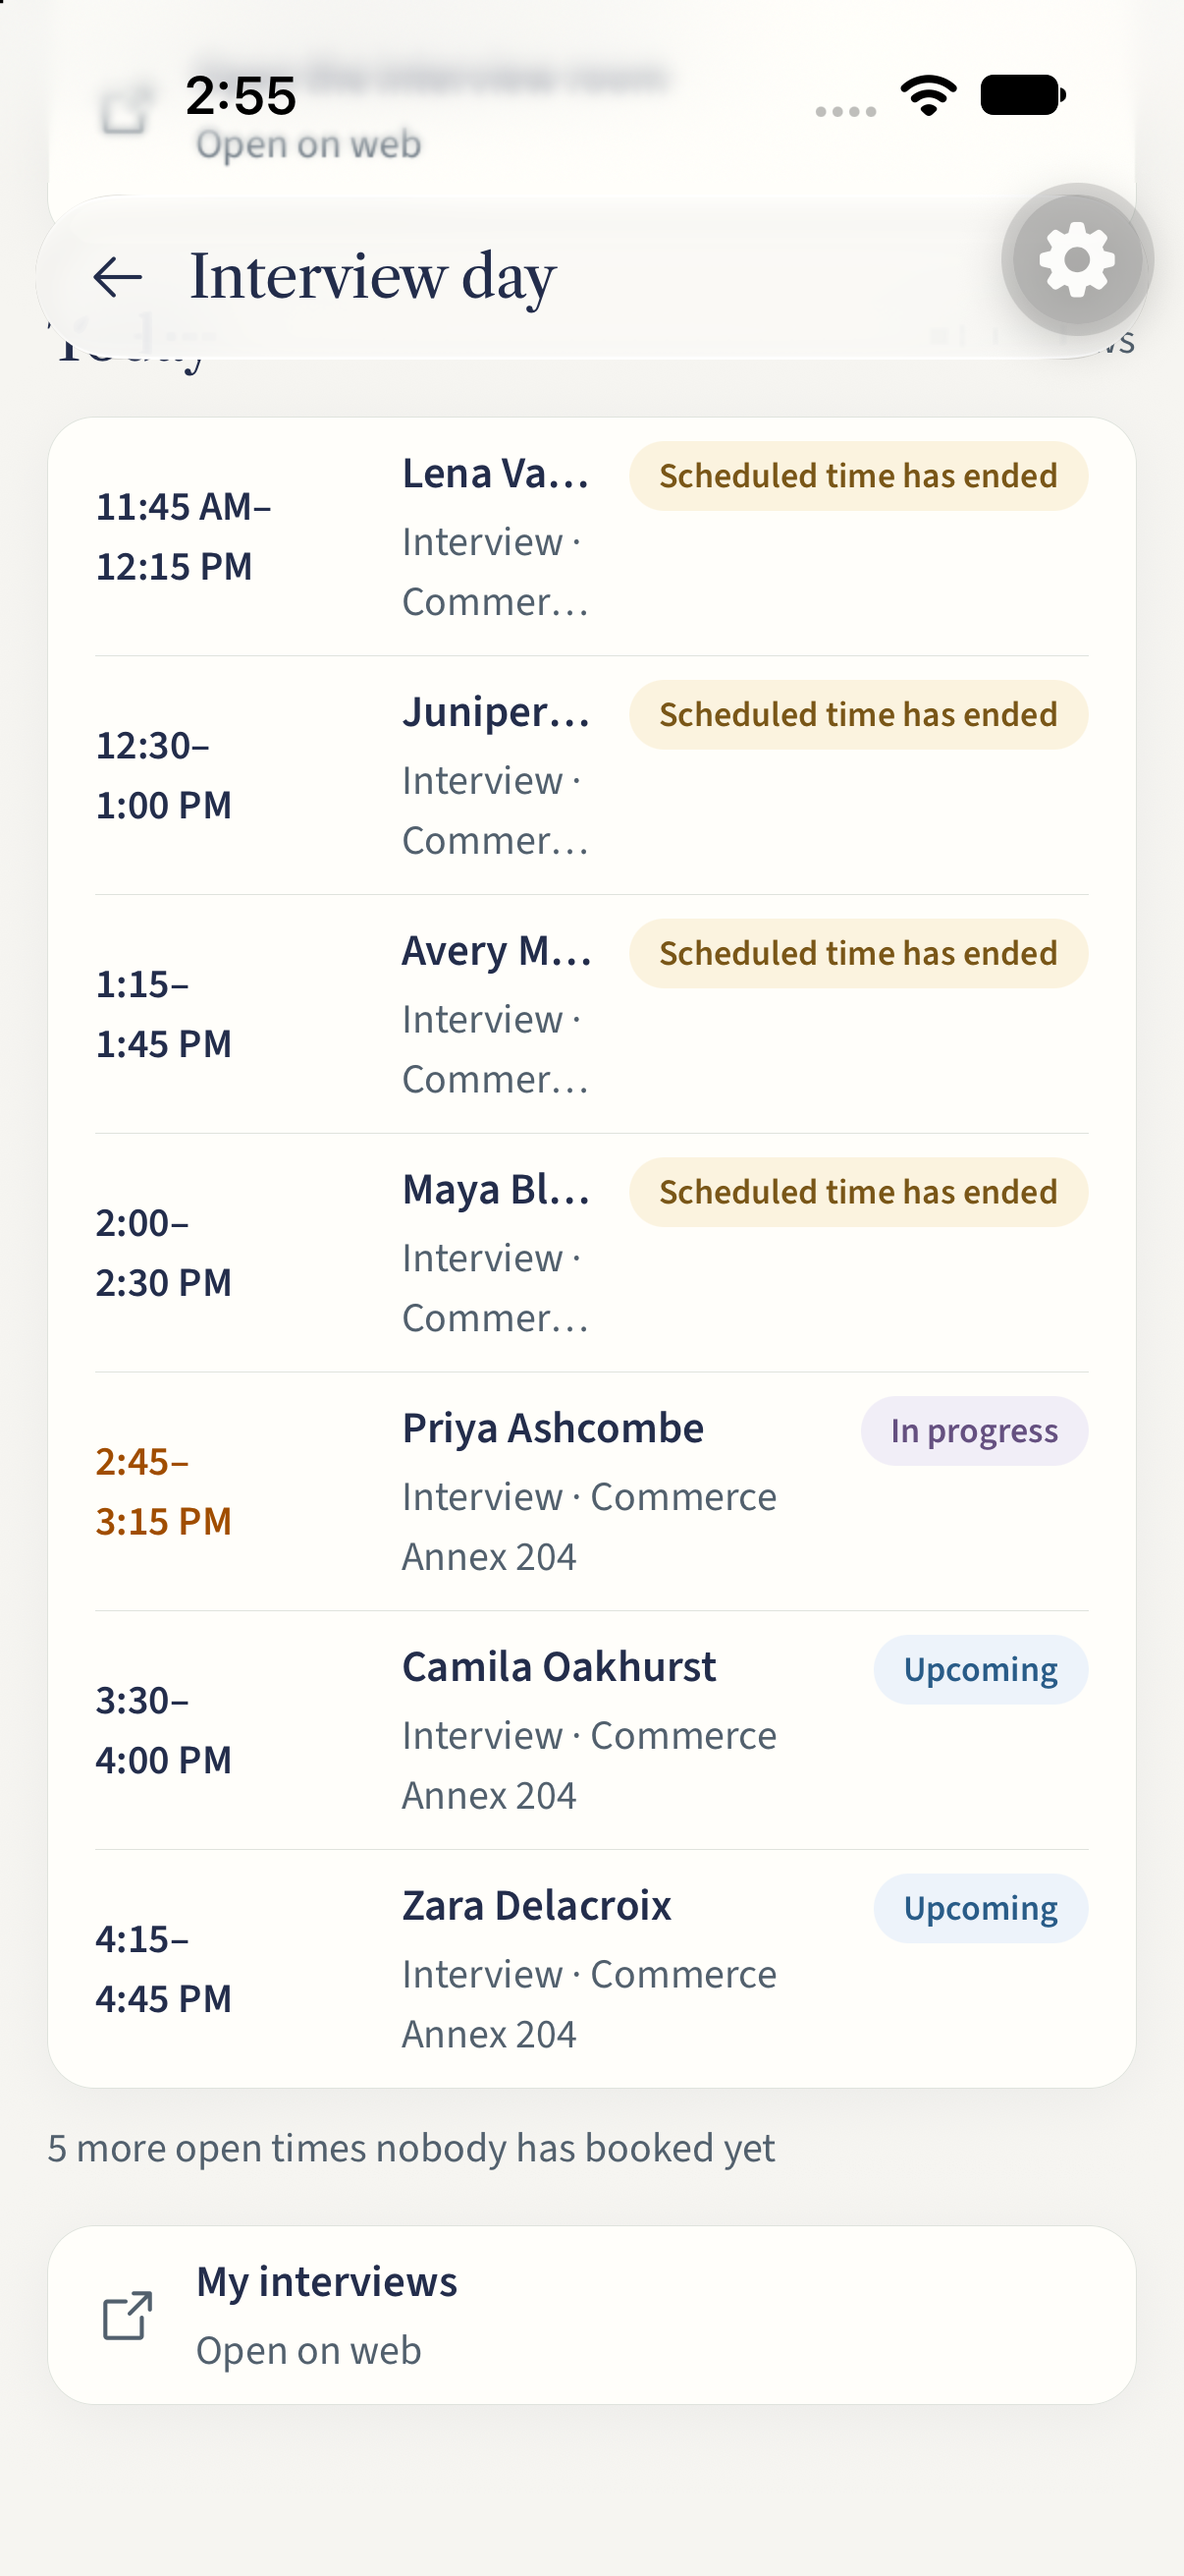
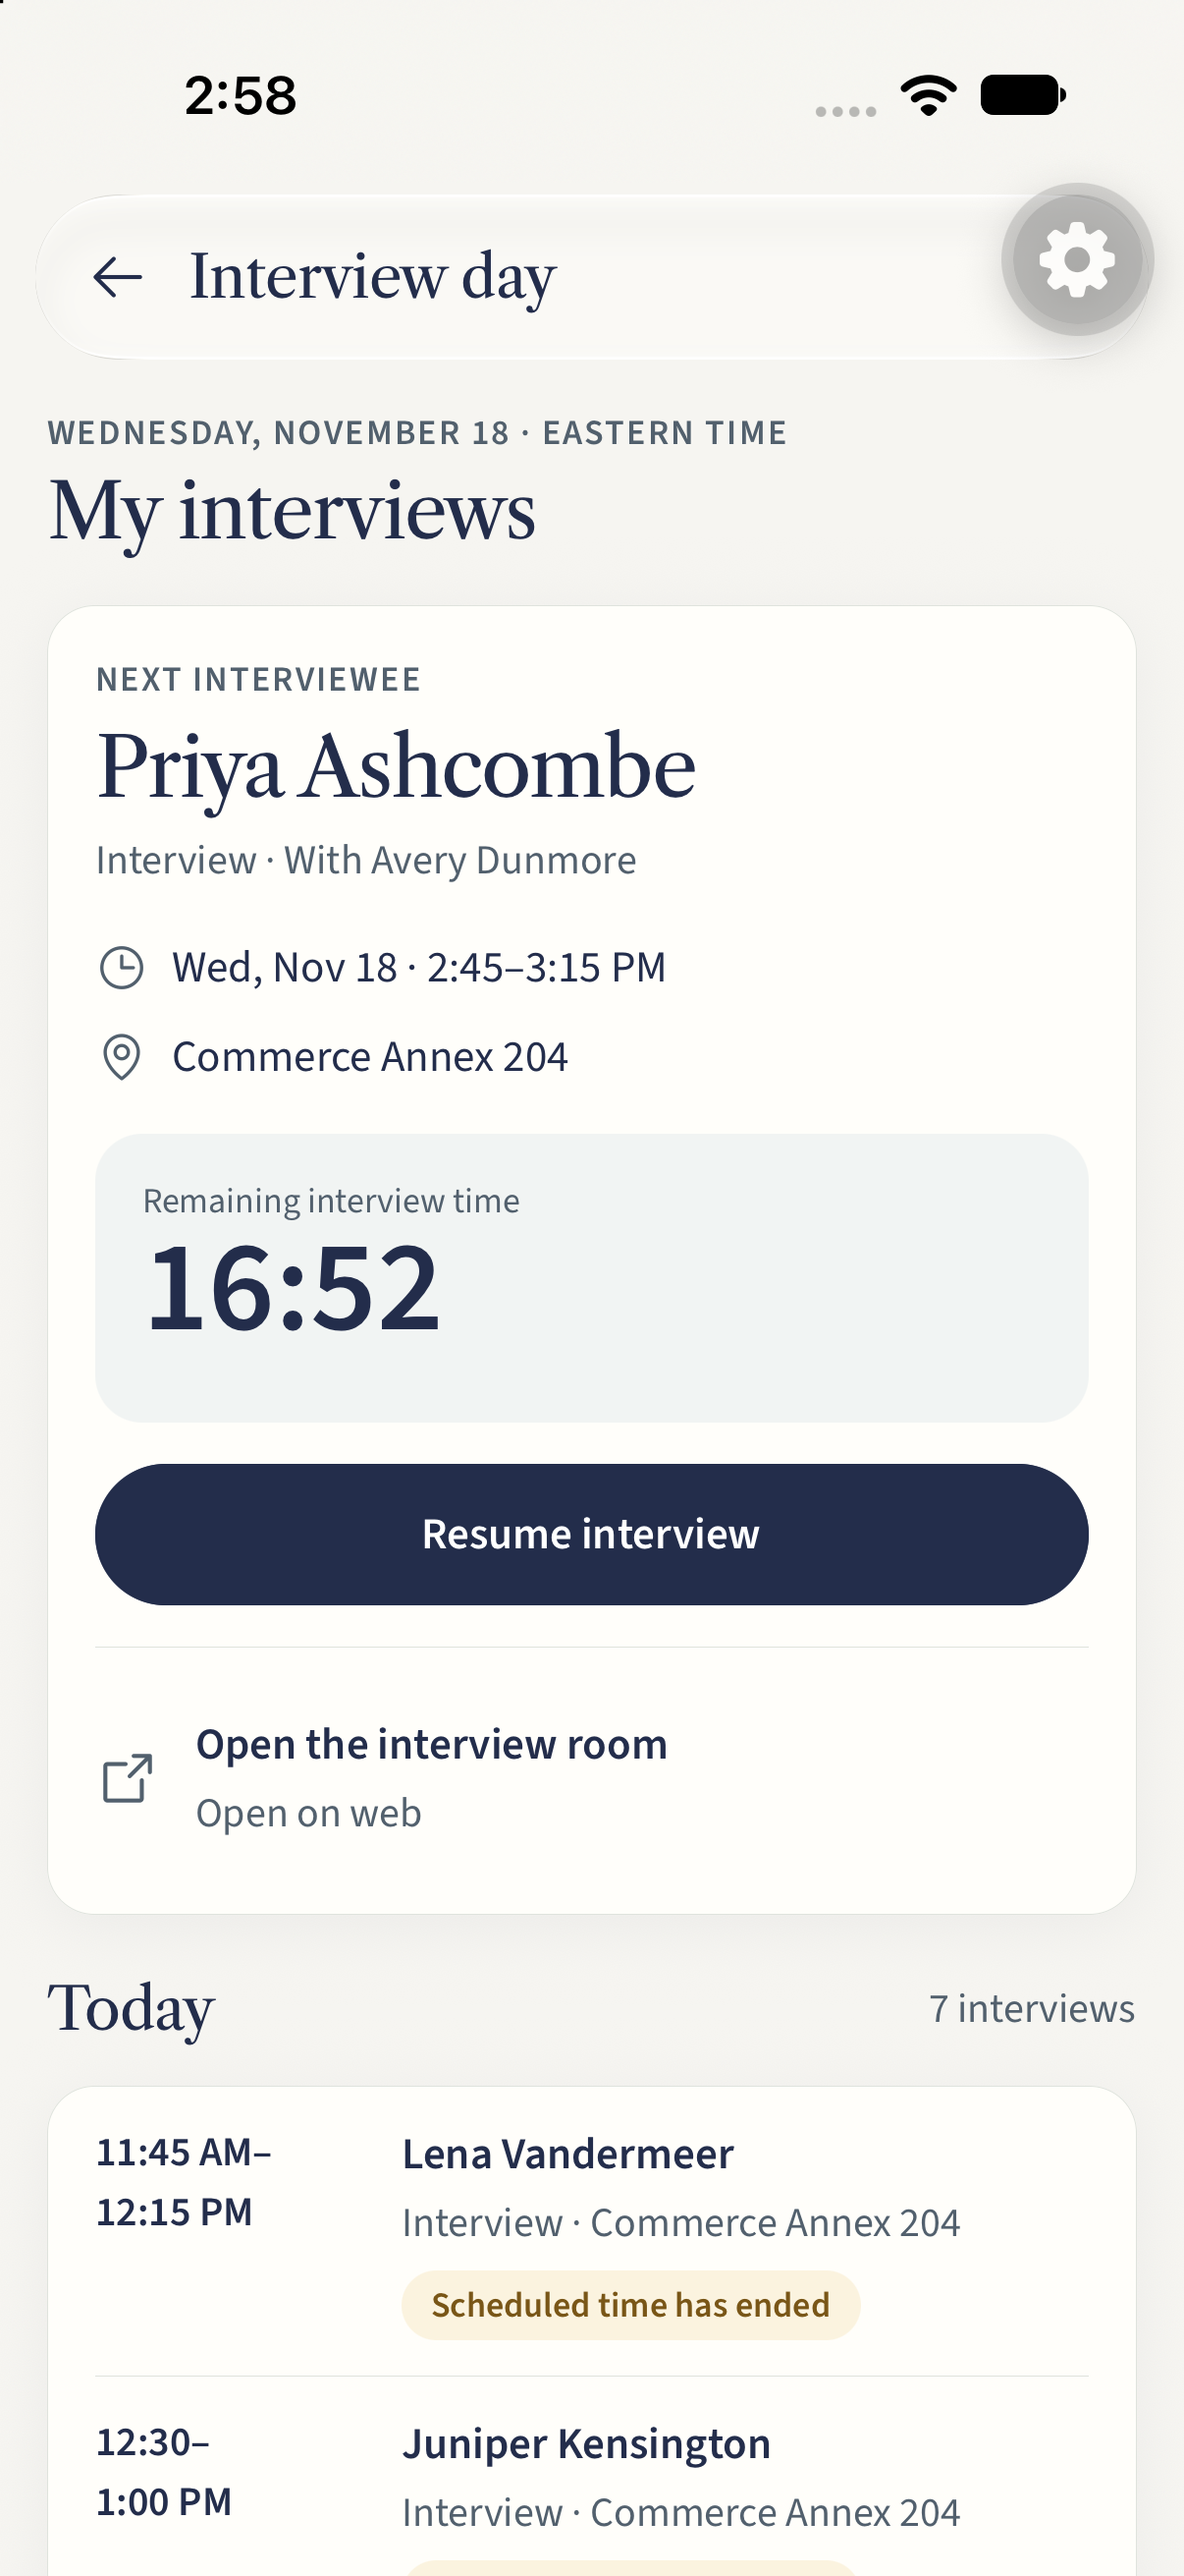
Live voting, interview day, applicant glance; disabled press dim

diff --git a/mobile/src/app/task/[assignmentId].tsx b/mobile/src/app/task/[assignmentId].tsx
@@ -1,7 +1,7 @@
 import { useMutation, useQueryClient } from "@tanstack/react-query";
 import { useLocalSearchParams } from "expo-router";
 import { useEffect, useRef, useState } from "react";
-import { KeyboardAvoidingView, Platform, View } from "react-native";
+import { View } from "react-native";
 import { AlumniBanner, useIsAlumni } from "~/components/alumni-banner";
 import { Field } from "~/components/field";
 import { Header, useHeaderInset } from "~/components/header";
@@ -129,8 +129,8 @@ export default function TaskScreen() {
   const children = task && workspace ? workspace.tasks.filter(child => child.projectId === task.id) : [];
 
   return (
-    <KeyboardAvoidingView behavior={Platform.OS === "ios" ? "padding" : undefined} style={{ flex: 1 }}>
-      <ScreenScroll top={top} refreshing={workspaces.some(query => query.isRefetching)} onRefresh={refresh} testID="task-screen">
+    <View style={{ flex: 1 }}>
+      <ScreenScroll top={top} automaticallyAdjustKeyboardInsets refreshing={workspaces.some(query => query.isRefetching)} onRefresh={refresh} testID="task-screen">
         {loading ? (
           <>
             <View style={{ gap: 10 }}><Skeleton width="50%" /><Skeleton width="85%" height={30} /><Skeleton width="40%" /></View>
@@ -182,6 +182,6 @@ export default function TaskScreen() {
         )}
       </ScreenScroll>
       <Header title="Task" back />
-    </KeyboardAvoidingView>
+    </View>
   );
 }

diff --git a/mobile/src/app/settings/account.tsx b/mobile/src/app/settings/account.tsx
@@ -1,6 +1,6 @@
 import { useMutation, useQueryClient } from "@tanstack/react-query";
 import { useState } from "react";
-import { KeyboardAvoidingView, Platform, View } from "react-native";
+import { View } from "react-native";
 import { Field } from "~/components/field";
 import { Header, useHeaderInset } from "~/components/header";
 import { ExternalLink, LogOut } from "~/components/icons";
@@ -136,8 +136,8 @@ export default function AccountSettings() {
   }
 
   return (
-    <KeyboardAvoidingView behavior={Platform.OS === "ios" ? "padding" : undefined} style={{ flex: 1 }}>
-      <ScreenScroll top={top} testID="settings-account-screen">
+    <View style={{ flex: 1 }}>
+      <ScreenScroll top={top} automaticallyAdjustKeyboardInsets testID="settings-account-screen">
         <Text variant="display" accessibilityRole="header">Account & Security</Text>
         <Card style={{ gap: 14 }}>
           <Text variant="section" accessibilityRole="header">Sign-in information</Text>
@@ -156,6 +156,6 @@ export default function AccountSettings() {
       </ScreenScroll>
       <Header title="Settings" back />
       {sheet}
-    </KeyboardAvoidingView>
+    </View>
   );
 }

diff --git a/mobile/src/components/ui.tsx b/mobile/src/components/ui.tsx
@@ -22,7 +22,8 @@ export function Press({ children, style, large, onPressIn, onPressOut, disabled,
   const pressed = useSharedValue(0);
   const animated = useAnimatedStyle(() => ({
     transform: [{ scale: 1 - pressed.value * (1 - (large ? theme.press.scaleLarge : theme.press.scale)) }],
-    opacity: 1 - pressed.value * 0.08,
+    // The animated value owns opacity, so the disabled dim is folded in here rather than in a static style.
+    opacity: (disabled ? 0.5 : 1) * (1 - pressed.value * 0.08),
   }));
   return (
     <AnimatedPressable
@@ -31,7 +32,7 @@ export function Press({ children, style, large, onPressIn, onPressOut, disabled,
       {...rest}
       onPressIn={event => { pressed.value = theme.a11y.reduceMotion ? 1 : withTiming(1, { duration: theme.duration.pressIn }); onPressIn?.(event); }}
       onPressOut={event => { pressed.value = spring(0, { kind: "quick", reduceMotion: theme.a11y.reduceMotion }); onPressOut?.(event); }}
-      style={[style, animated, disabled ? { opacity: 0.5 } : null]}
+      style={[style, animated]}
     >
       {children}
     </AnimatedPressable>

diff --git a/mobile/src/app/leader/[clubId]/applicants.tsx b/mobile/src/app/leader/[clubId]/applicants.tsx
@@ -144,7 +144,7 @@ export default function Applicants() {
                 <View style={{ flex: 1, gap: 2 }}>
                   <Text variant="card" numberOfLines={1}>{name}</Text>
                   <Text variant="small" numberOfLines={1}>{hidden ? "Anonymous review" : facts || item.student.email}</Text>
-                  <Text variant="caption" numberOfLines={1}>{roundName(item.roundId)} · {rating(item)}</Text>
+                  <Text variant="caption" numberOfLines={2}>{roundName(item.roundId)} · {rating(item)}</Text>
                 </View>
                 <View style={{ alignItems: "flex-end", gap: 8 }}>
                   <Chip label={statusLabels[item.status] ?? item.status} tone={statusTone(item.status)} />
